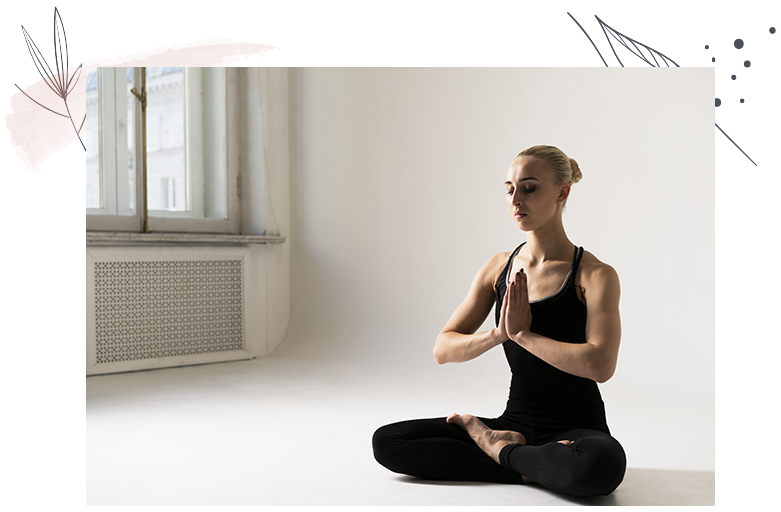
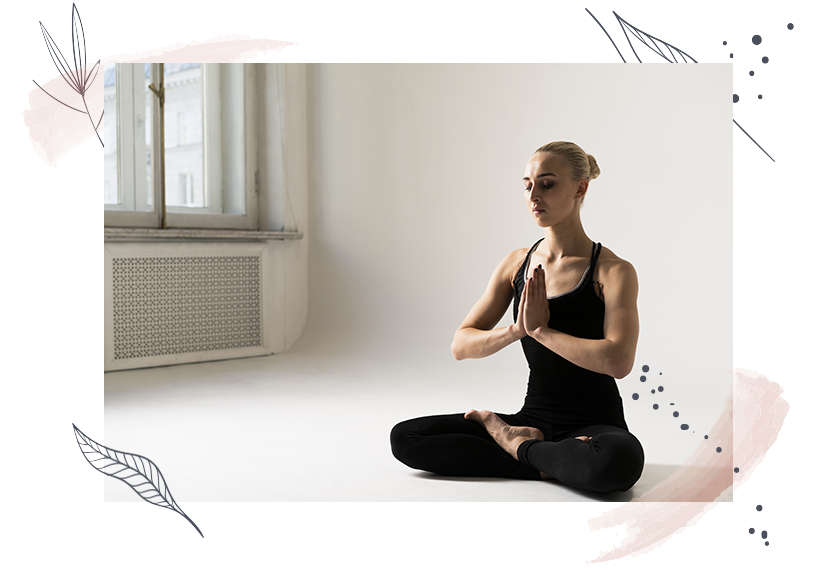
avance 2

diff --git a/index.html b/index.html
@@ -7,15 +7,15 @@
     <link rel="stylesheet" href="style.css">
 </head>
 <body>
-    <header class=" flex flex-center white_bg width height-10 fixed">
-      <nav class="flex flex-space_bentweed  width-90">
-        <div class="flex flex-aling_center">
-          <img src="Componentes/Header/logo.png" alt="Logo" class="margin-right">
+    <header class=" flex flex-center white_bg width white_bg height-10 fixed">
+      <nav class="flex flex-space_bentweed  width-90 z-index">
+        <div class="flex flex-aling_center ">
+          <img src="Componentes/Header/logo.png" alt="Logo" class="margin-right z-index-2">
         </div>
         <div id="toggle-menu" class="toggle-menu">
           <img src="Componentes/Header/menu_FILL0_wght400_GRAD0_opsz24.svg" alt="">
         </div>
-        <ul class="main-menu flex flex-space_evenly flex-aling_center red_bg width-70" id="main-menu">
+        <ul class="main-menu flex flex-space_evenly flex-aling_center width-70" id="main-menu">
           <li class="list_None">
             <a href="#home"class="text_nav">Home</a>
           </li>
@@ -48,7 +48,7 @@
             <img src="Componentes/Articulo 1/img2.png" alt="image" class="img2 absolute">
             <img src="Componentes/Articulo 1/img3.png" alt="image" class="img3 absolute">
             <img src="Componentes/Articulo 1/img4.png" alt="image" class="img4 absolute">
-            <img src="Componentes/Articulo 1/img5.png" alt="image" class="img5 absolute">
+            <img src="Componentes/Articulo 1/img5.png" alt="image" class="img5 absolute ">
           </section>
           <section class="flex flex-column width-40 flex-space_evenly height-80">
             <h1 class="text_title">Balance Your Body and Mind</h1>
@@ -58,12 +58,12 @@
             </div>
           </section>
         </article>
-        <article class="article flex flex-space_evenly flex-aling_center gap image_fondo1" id="about">
-          <section class="flex flex-column width-40 flex-space_evenly height-80 z-index gap">
-            <h1 class="text_title">Pregnant Women Program</h1>
-            <p class="text">Duis aute irure dolor in reprehenderit in voluptate velit esse cillum dolore eu fugiat nulla pariatur. Excepteur sint occaecat cupidatat.</p>
+        <article class="article flex flex-space_evenly flex-aling_center gap image_fondo1 " id="about">
+          <section class="flex flex-column width-40 flex-space_evenly height-80  gap ">
+            <h1 class="text_title ">Pregnant Women Program</h1>
+            <p class="text ">Duis aute irure dolor in reprehenderit in voluptate velit esse cillum dolore eu fugiat nulla pariatur. Excepteur sint occaecat cupidatat.</p>
             <div>
-              <button class="button text">JOIN US NOW</button>
+              <button class="button">JOIN US NOW</button>
             </div>
           </section>
           <section>
@@ -96,18 +96,16 @@
             </div>
           </section>
           <section class="width-40">
-            <img src="Componentes/Articulo 4/image.png" alt="image" class="image1 z-index">
-            <img src="Componentes/Articulo 4/img1.png" alt="image" class="img6 absolute">
-            <img src="Componentes/Articulo 4/img2.png" alt="image" class="img7 absolute">
+            <img src="Componentes/Articulo 4/image.png" alt="image" class="image1">
             <img src="Componentes/Articulo 4/img3.png" alt="image" class="img8 absolute">
           </section>
         </article>
-        <article class="gray_bg flex flex-space_evenly flex-aling_center article gap" id="training">
+        <article class="gray_bg flex flex-space_evenly flex-aling_center article gap " id="training">
           <section> 
             <img src="Componentes/Articulo 5/image.png" alt="image" class="image3">
-            <img src="Componentes/Articulo 5/flotante.png" alt="img" class="img9 absolute">
+            <img src="Componentes/Articulo 5/flotante.png" alt="" class="img9 absolute">
           </section>
-          <section class="flex flex-column width-40 flex-space_evenly height-80 z-index">
+          <section class="flex flex-column width-40 flex-space_evenly height-80">
             <h1 class="text_title">Join Now and Get 50% Off</h1>
             <p class="text">Duis aute irure dolor in reprehenderit in voluptate velit esse cillum dolore eu fugiat nulla pariatur. Excepteur sint occaecat cupidatat.</p>
             <div>
@@ -115,7 +113,7 @@
             </div>
           </section>
         </article>
-        <article class="flex article flex-column flex-aling_center flex-space_evenly" id="event">
+        <article class="flex article article3 flex-column flex-aling_center flex-space_evenly" id="event">
           <section class="flex flex-aling_center flex-center flex-column width-70">
             <h3 class="text_title2">Galery</h3>
             <p class="text text_center">Neque laoreet suspendisse interdum consectetur libero id faucibus nisl tincidunt. Dictum fusce ut placerat orci nulla pellentesque dignissim enim sit. </p>
@@ -123,7 +121,7 @@
           <section>
             <img src="Componentes/Articulo 6/img1.png" alt="img" class="absolute img10">
           </section>
-          <section class="flex flex-aling_center flex-space_evenly width">
+          <section class=" grid">
             <div class="flex flex-column card ">
               <img src="Componentes/Articulo 6/img-1.png" alt="image">
               <h3 class="text_h3 padding_top text_center">Facilis Gravida</h3>

diff --git a/style.css b/style.css
@@ -9,7 +9,7 @@
 :root{
     ---Text-1: #484f5b;
     ---button: #f3ccc4;
-    ---white: whith;
+    ---white: white;
     ---gray:#b8b0b0;
 }
 
@@ -17,9 +17,10 @@
     background-color: rebeccapurple;
 }
 .white_bg{
-    background-color: var(white);
+    background-color: var(---white);
 }
 .gray_bg{
+    z-index: -10;
     background-color: var(---gray);
 }
 /* Flex */
@@ -67,7 +68,19 @@
     z-index: 10;
 }
 .z-index-0{
+    z-index: 0;
+}
+.z-index--1{
+    z-index: -1;
+}
+.z-index-1{
     z-index: 1;
+}
+.z-index_1{
+    z-index: -10;
+}
+.z-index-2{
+    z-index: 20;
 }
 
 /* Imagenes */
@@ -79,6 +92,7 @@
     font-family: "Open Sans", sans-serif;
 }
 .image1{
+    z-index: -2;
     width: clamp(50px, 40vw, 800px);
 }
 .image2{
@@ -97,54 +111,52 @@
 }
 
 .img1{
+    z-index: -1;
     width: 15vw;
     right: 0;
     top: 10vh;
 }
 .img2{
+    z-index: -1;
     width: 15vw;
     right: 70vw;
     top: 70vh;
 }
 .img3{
+    z-index: -1;
     width: 12vw;
     right: 0vw;
     bottom: 0;
 }
 .img4{
+    z-index: -1;
     width: 13vw;
     bottom: 40vh;
     left: 14vw;
 }
 .img5{
+    z-index: -1;
     width: 15vw;
     top: 10vh;
     left: 0;
 }
-.img6{
-    width: clamp(15px, 23vw, 650px);
-    top: 304vh;
-    right: 0vw;
-}
-.img7{
-    width: clamp(15px, 23vw, 650px);
-    top: 306vh;
-    right: 28vw;
-}
 .img8{
     width: clamp(15px, 10vw, 130px);
-    top: 334vh;
+    top: 340vh;
     left: 0vw;
+    z-index: -1;
 }
 .img9{
     width: clamp(20px, 23vw, 400px);
+    height: auto;
     top: 368vh;
-    right: 28vw;
+    right: clamp(100px, 25vw,800px);
 }
 .img10{
     width: clamp(20px, 13vw, 300px);
-    top: 530vh;
+    top: 540vh;
     left: 0vw;
+    z-index: -1;
 }
 
 /* tougle */
@@ -202,6 +214,7 @@
 .text_title{
     font-size: clamp(30px, 6vw, 75px);
     letter-spacing: 1px;
+    width: auto;
     font-weight: 700;
     color: var(---Text-1);
     font-family: "Open Sans", sans-serif;
@@ -238,6 +251,7 @@
     background-color: var(---button);
     border: none;
     font-weight: 700;
+    font-size: clamp(10px, 3vw, 18px);
 }
 
 /* Card */
@@ -245,7 +259,6 @@
     height: auto;
     width: 20vw;
     box-shadow: 0px 6px 12px rgba(0, 0, 0, 0.5);
-    z-index: 10;
 }
 
 /* Padding */
@@ -258,8 +271,59 @@
 .padding_botton{
     padding-bottom: 20px;
 }
+/* Grid */
+.grid{
+    flex-wrap: wrap;
+    display: flex;
+    justify-content: space-evenly;
+    gap: 20px;
+  }
 @media (max-width: 850px){
+    .grid{
+        flex-direction: column;
+        align-items: center;
+    }
+    .card{
+        width: 60%;
+        height: auto;
+    }
+    .width-40{
+        width: 90%;
+        display: flex;
+        justify-content: center;
+    }
+    .text_title{
+        margin-top: 10px;
+    }
+    .text{
+        margin-top: 20px;
+        margin-bottom: 20px;
+    }
+    /* Flex */
+    .flex{
+        flex-direction: column;
+    }
+    .article{
+        height: clamp(400px, 100vh,900px)
+    }
+    .article3{
+        height: auto;
+    }
+    .height-80{
+        height: auto;
+    }
+    .article-50{
+        height: auto;
+    }
+    /* img */
+    .img9{
+        display: none;
+    }
+    .gap{
+        gap: 0px;
+    }
     /* toggle */
+    
   .toggle-menu{
     display: block;
     width: 50px;
@@ -268,7 +332,7 @@
     top: 1.5rem;
     right: 1.5rem;
     cursor: pointer;
-    z-index: 1;
+    z-index: inherit;
   }
   .toggle-menu img{
     width: 100%;
@@ -284,11 +348,13 @@
     flex-direction: column;
     align-items: center;
     justify-content: space-around;
-    background-color: var(--Gris_Suave);
+    background-color: var(---gray);
     transform: translateY(-100%);
     transition: 0.5s ease, transform 0.5s ease;
   }
+
   .main-menu--show{
     transform: translateY(0);
+    
   }
 }
